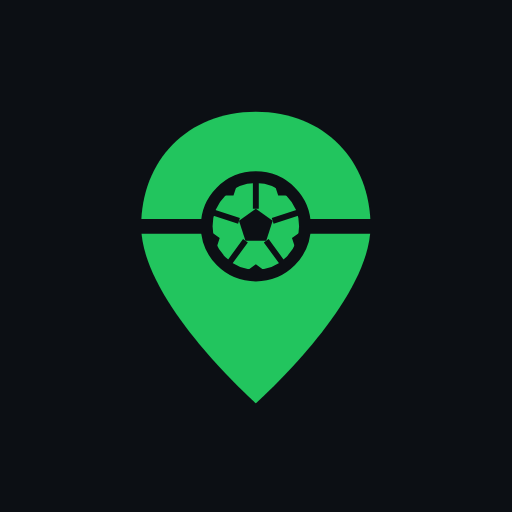
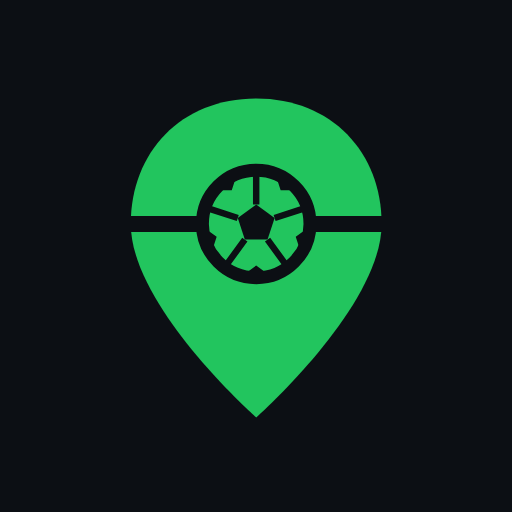
Icône d'écran d'accueil : épingle un peu plus grande
- Épingle à ~70 % de l'icône (au lieu de ~60 %), icônes v8
- Les anciens noms (v3 à v7) et apple-touch-icon.png pointent vers la même image
- Cache footzone-v51, APP_VERSION v51

Claude-Session: https://claude.ai/code/session_014eksUWSUPeMTjwUmRNJDGE

Changed region(s): [[0.25, 0.1875, 0.75, 0.8125]]

diff --git a/index.html b/index.html
@@ -24,7 +24,7 @@
 <link rel="preload" href="saira-stencil-v1.woff2" as="font" type="font/woff2" crossorigin>
 <link rel="manifest" href="manifest.webmanifest">
 <meta name="theme-color" content="#0c0f14">
-<link rel="apple-touch-icon" href="apple-touch-icon-v7.png">
+<link rel="apple-touch-icon" href="apple-touch-icon-v8.png">
 <link rel="icon" type="image/png" sizes="32x32" href="favicon-32-v6.png">
 <link rel="stylesheet" href="https://cdnjs.cloudflare.com/ajax/libs/leaflet/1.9.4/leaflet.min.css" />
 <link rel="stylesheet" href="https://cdnjs.cloudflare.com/ajax/libs/leaflet.markercluster/1.5.3/MarkerCluster.css" />
@@ -2436,7 +2436,7 @@ function subscribeNotifs(){
   state.notifChannel=sb.channel('mes-notifs').on('postgres_changes',{event:'INSERT',schema:'public',table:'notifications',filter:'user_id=eq.'+uid()},p=>{
     const n=p.new; state.notifs.unshift(n); updateBells(); toast(n.titre);
     if(document.hidden&&lsGet('fz_push')!=='oui'&&lsGet('fz_notif_nav')==='oui'&&'Notification' in window&&Notification.permission==='granted'){
-      const show=r=>r?r.showNotification(n.titre,{body:n.corps||'',icon:'icon-192-v7.png',badge:'favicon-32-v6.png',tag:'fz-'+n.id}):new Notification(n.titre,{body:n.corps||'',icon:'icon-192-v7.png'});
+      const show=r=>r?r.showNotification(n.titre,{body:n.corps||'',icon:'icon-192-v8.png',badge:'favicon-32-v6.png',tag:'fz-'+n.id}):new Notification(n.titre,{body:n.corps||'',icon:'icon-192-v8.png'});
       (navigator.serviceWorker?.getRegistration?.()||Promise.resolve(null)).then(show).catch(()=>{});
     }
   }).subscribe();
@@ -7272,7 +7272,7 @@ function openLegalMenu(){
 }
 
 /* ---------- Journal des erreurs : on remonte les bugs des vrais joueurs ---------- */
-const APP_VERSION='v50';
+const APP_VERSION='v51';
 (function initErrorLog(){
   let sent=0; const seen=new Set();
   const send=(message,source)=>{

diff --git a/sw.js b/sw.js
@@ -1,7 +1,7 @@
 // FootZone : met en cache l'appli pour qu'elle s'ouvre vite et soit installable.
 // Les données (Supabase, cartes, OpenStreetMap) ne sont jamais mises en cache ici.
-const CACHE = 'footzone-v50';
-const SHELL = ['./', './index.html', './manifest.webmanifest', './icon-192-v7.png', './icon-512-v7.png', './apple-touch-icon-v7.png', './favicon-32-v6.png', './saira-stencil-v1.woff2'];
+const CACHE = 'footzone-v51';
+const SHELL = ['./', './index.html', './manifest.webmanifest', './icon-192-v8.png', './icon-512-v8.png', './apple-touch-icon-v8.png', './favicon-32-v6.png', './saira-stencil-v1.woff2'];
 self.addEventListener('install', e => {
   e.waitUntil(caches.open(CACHE).then(c => Promise.all(SHELL.map(u => c.add(u).catch(() => null)))).then(() => self.skipWaiting()));
 });
@@ -22,7 +22,7 @@ self.addEventListener('push', e => {
   let d = {};
   try { d = e.data ? e.data.json() : {}; } catch (err) { d = { title: 'FootZone', body: e.data ? e.data.text() : '' }; }
   e.waitUntil(self.registration.showNotification(d.title || 'FootZone', {
-    body: d.body || '', icon: './icon-192-v7.png', badge: './icon-192-v7.png',
+    body: d.body || '', icon: './icon-192-v8.png', badge: './icon-192-v8.png',
     tag: d.tag || undefined, renotify: !!d.tag, data: { url: d.url || './' }
   }));
 });
